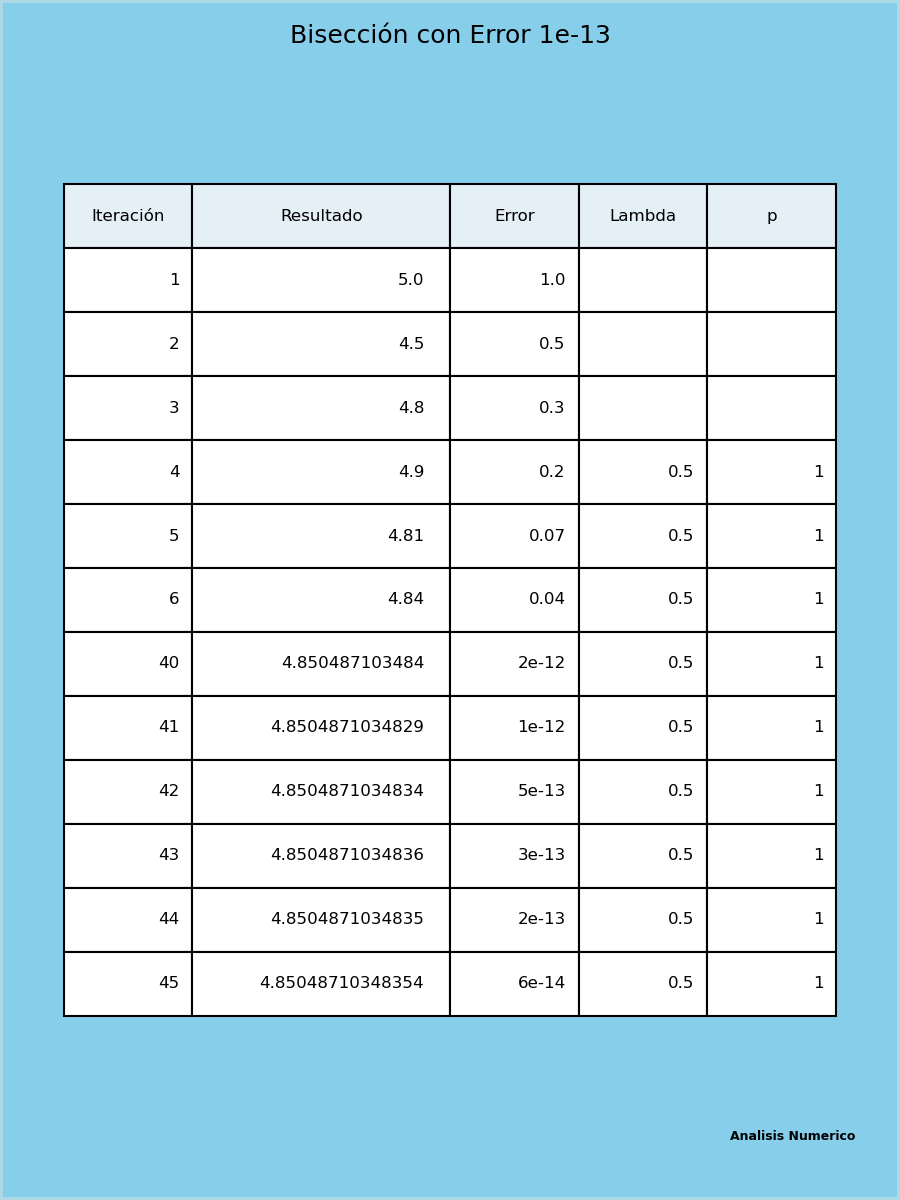
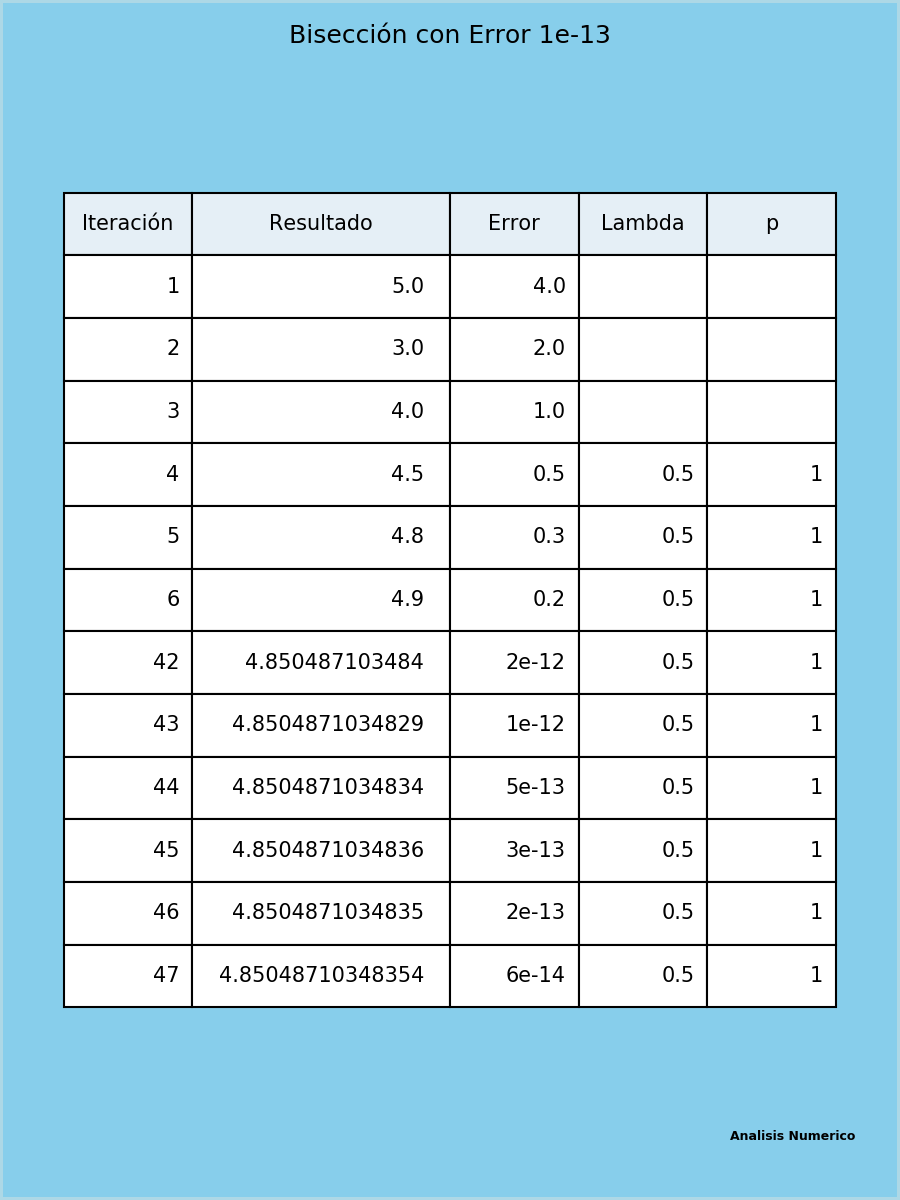
Cambios

diff --git a/Ejercicio3.py b/Ejercicio3.py
@@ -9,7 +9,7 @@ Radio = 4.25
 lim_inf = 4
 lim_sup = 6
 
-max_error = 1 * 10**(-5)
+max_error = 1 * 10**(-13)
 
 ERROR_BISECCION = 0.02
 
@@ -60,6 +60,8 @@ semilla = (matriz_semilla_1[iteraciones_1 - 1])[1]
 cota_semilla = (matriz_semilla_1[iteraciones_1 - 1])[2]
 #para secante
 
+#semilla = 2 * Radio	
+#cota_semilla = Radio *2 
 semilla_1 = semilla
 semilla_2 = semilla + cota_semilla
 
@@ -86,6 +88,7 @@ print("Generándose los gráficos...espere porfavor\n")
 header = ["Iteración", "Resultado", "Error", "Lambda", "p"]
 
 matriz_biseccion.insert(0, header)
+
 tb.GenerarTabla(matriz_biseccion, iteraciones_biseccion, "Bisección con Error "+ str(max_error), "Bisección_graph_"+ str(max_error))
 matriz_biseccion.pop(0)
 tb.GeneraeConvGrafico(matriz_biseccion, iteraciones_biseccion, "Bisección convergencia", "Bisección_graph_convergenia"+ str(max_error))
@@ -95,15 +98,15 @@ tb.GenerarTabla(matriz_secante, iteraciones_secante, "Secante con Error " + str(
 tb.GeneraeConvGrafico(matriz_secante, iteraciones_secante, "Secante convergencia", "Secante_graph_convergenia"+ str(max_error))
 
 matriz_PF.insert(0,header)
-tb.GenerarTabla(matriz_PF, iteraciones_PF, "PuntoFijo con Error " + str(max_error), "PuntoFijo_graph_"+ str(max_error))
-tb.GeneraeConvGrafico(matriz_PF, iteraciones_PF, "PuntoFijo convergencia","PuntoFijo_graph_convergenia"+ str(max_error))
+tb.GenerarTabla(matriz_PF, iteraciones_PF, "PuntoFijo con Error " + str(max_error), "PuntoFijo_graph_"+ str(max_error)  + str(funcion))
+tb.GeneraeConvGrafico(matriz_PF, iteraciones_PF, "PuntoFijo convergencia","PuntoFijo_graph_convergencia"+ str(max_error) + str(funcion))
 
 matriz_NR.insert(0, header)
-tb.GenerarTabla(matriz_NR, iteraciones_NR, "NR con Error " + str(max_error), "NR_graph_"+ str(max_error))
-tb.GeneraeConvGrafico(matriz_NR, iteraciones_NR, "NR convergencia", "NR_graph_convergenia"+ str(max_error))
+tb.GenerarTabla(matriz_NR, iteraciones_NR, "NR con Error " + str(max_error), "NR_graph_"+ str(max_error)  + str(funcion))
+tb.GeneraeConvGrafico(matriz_NR, iteraciones_NR, "NR convergencia", "NR_graph_convergenia"+ str(max_error)  + str(funcion))
 
 matriz_NRM.insert(0,header)
-tb.GenerarTabla(matriz_NRM, iteraciones_NRM, "NR Modificado con Error " + str(max_error), "NrMod_graph"+ str(max_error))
-tb.GeneraeConvGrafico(matriz_NRM, iteraciones_NRM, "NR Modificado convergencia", "NRMod_graph_convergenia"+ str(max_error))
+tb.GenerarTabla(matriz_NRM, iteraciones_NRM, "NR Modificado con Error " + str(max_error), "NrMod_graph"+ str(max_error)  + str(funcion))
+tb.GeneraeConvGrafico(matriz_NRM, iteraciones_NRM, "NR Modificado convergencia", "NRMod_graph_convergenia"+ str(max_error)  + str(funcion))
 
 print("Se descargaron los archivos \".png\" en la carpeta actual")

diff --git a/GeneradorTablas.py b/GeneradorTablas.py
@@ -124,7 +124,7 @@ def GeneraeConvGrafico(data, iteraciones, title_text, file_name):
     axs[0].scatter(x,y1)
     axs[0].set_title('lambda',fontsize=10)
     axs[0].set_xlabel('Iteraciones',fontsize=15)
-    axs[0].grid(True)
+    axs[0].grid(False)
     
     axs[1].scatter(x,y2)
     axs[1].set_title('convergencia P',fontsize=10)
